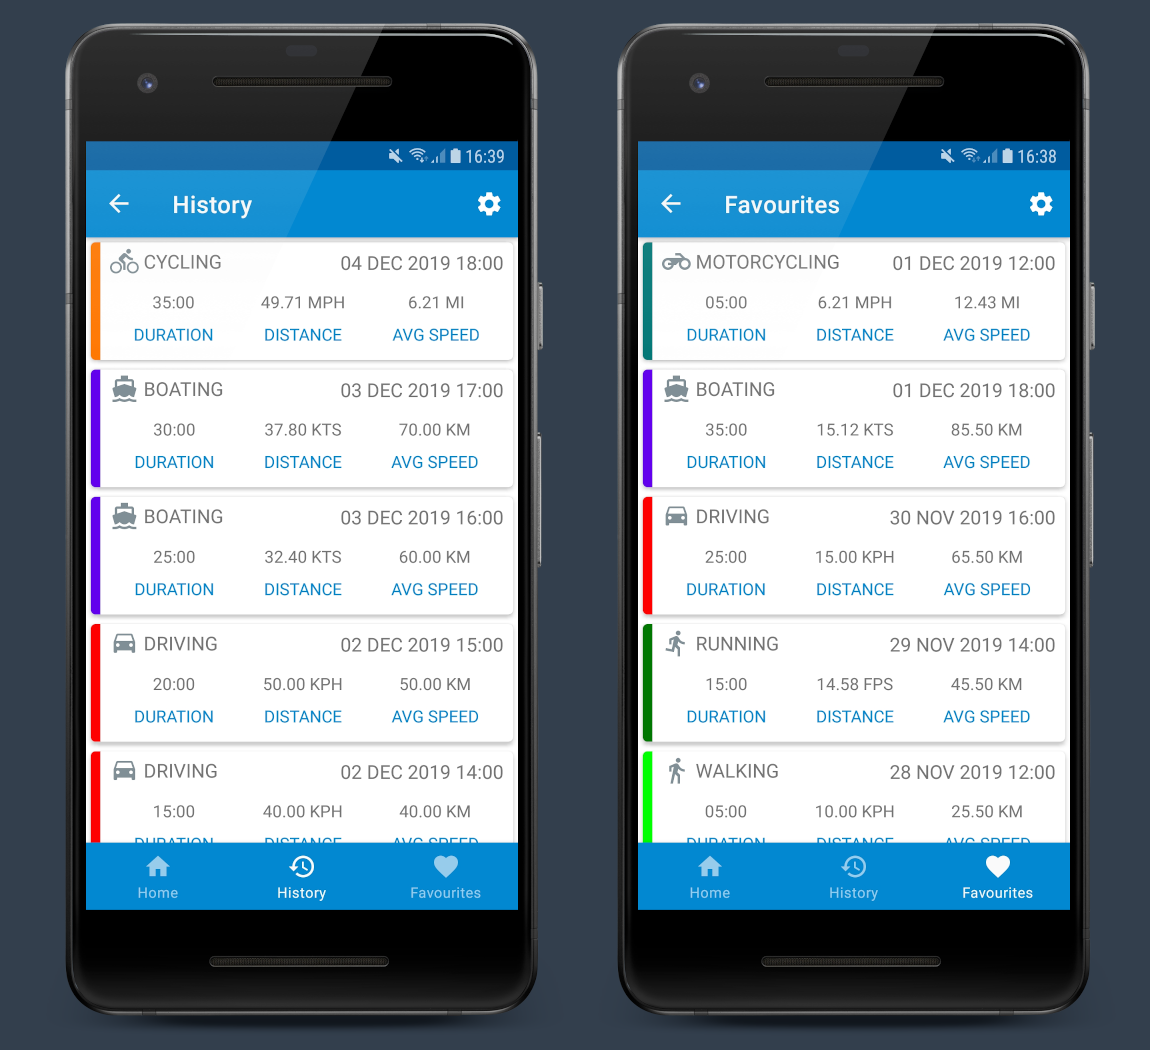
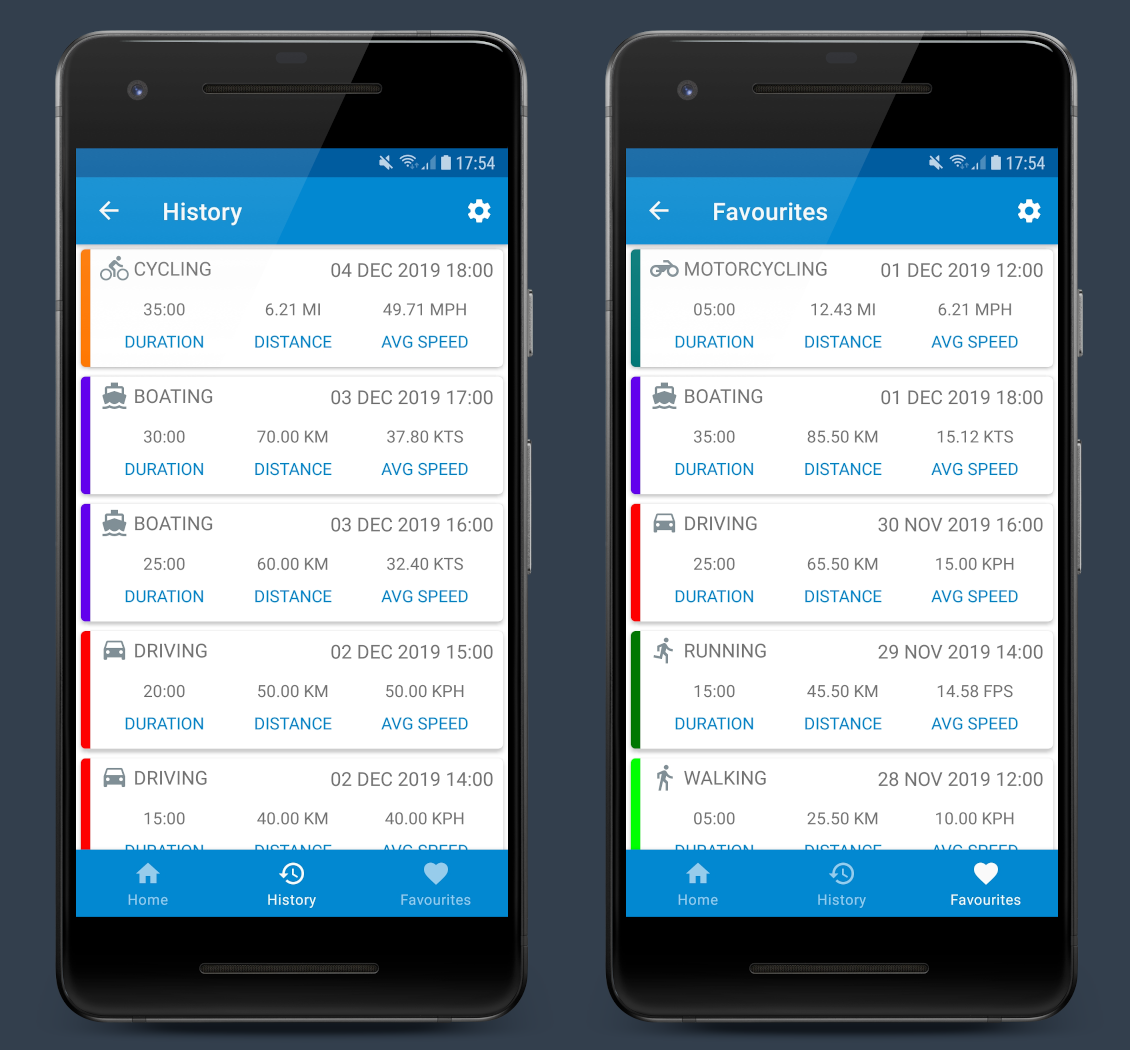
Re-working route summary list item layout

diff --git a/app/src/main/java/ie/justonetech/roadtriptracker/utils/BindingUtils.kt b/app/src/main/java/ie/justonetech/roadtriptracker/utils/BindingUtils.kt
@@ -3,8 +3,6 @@ package ie.justonetech.roadtriptracker.utils
 import android.view.View
 import android.widget.ImageView
 import android.widget.TextView
-import androidx.annotation.ColorInt
-import androidx.annotation.ColorLong
 import androidx.core.content.res.ResourcesCompat
 import androidx.core.widget.TextViewCompat
 import androidx.databinding.BindingAdapter

diff --git a/app/src/main/java/ie/justonetech/roadtriptracker/utils/ProfileType.kt b/app/src/main/java/ie/justonetech/roadtriptracker/utils/ProfileType.kt
@@ -1,6 +1,7 @@
 package ie.justonetech.roadtriptracker.utils
 
 import android.content.Context
+import androidx.annotation.ColorInt
 import androidx.annotation.DrawableRes
 import androidx.annotation.StringRes
 import ie.justonetech.roadtriptracker.R
